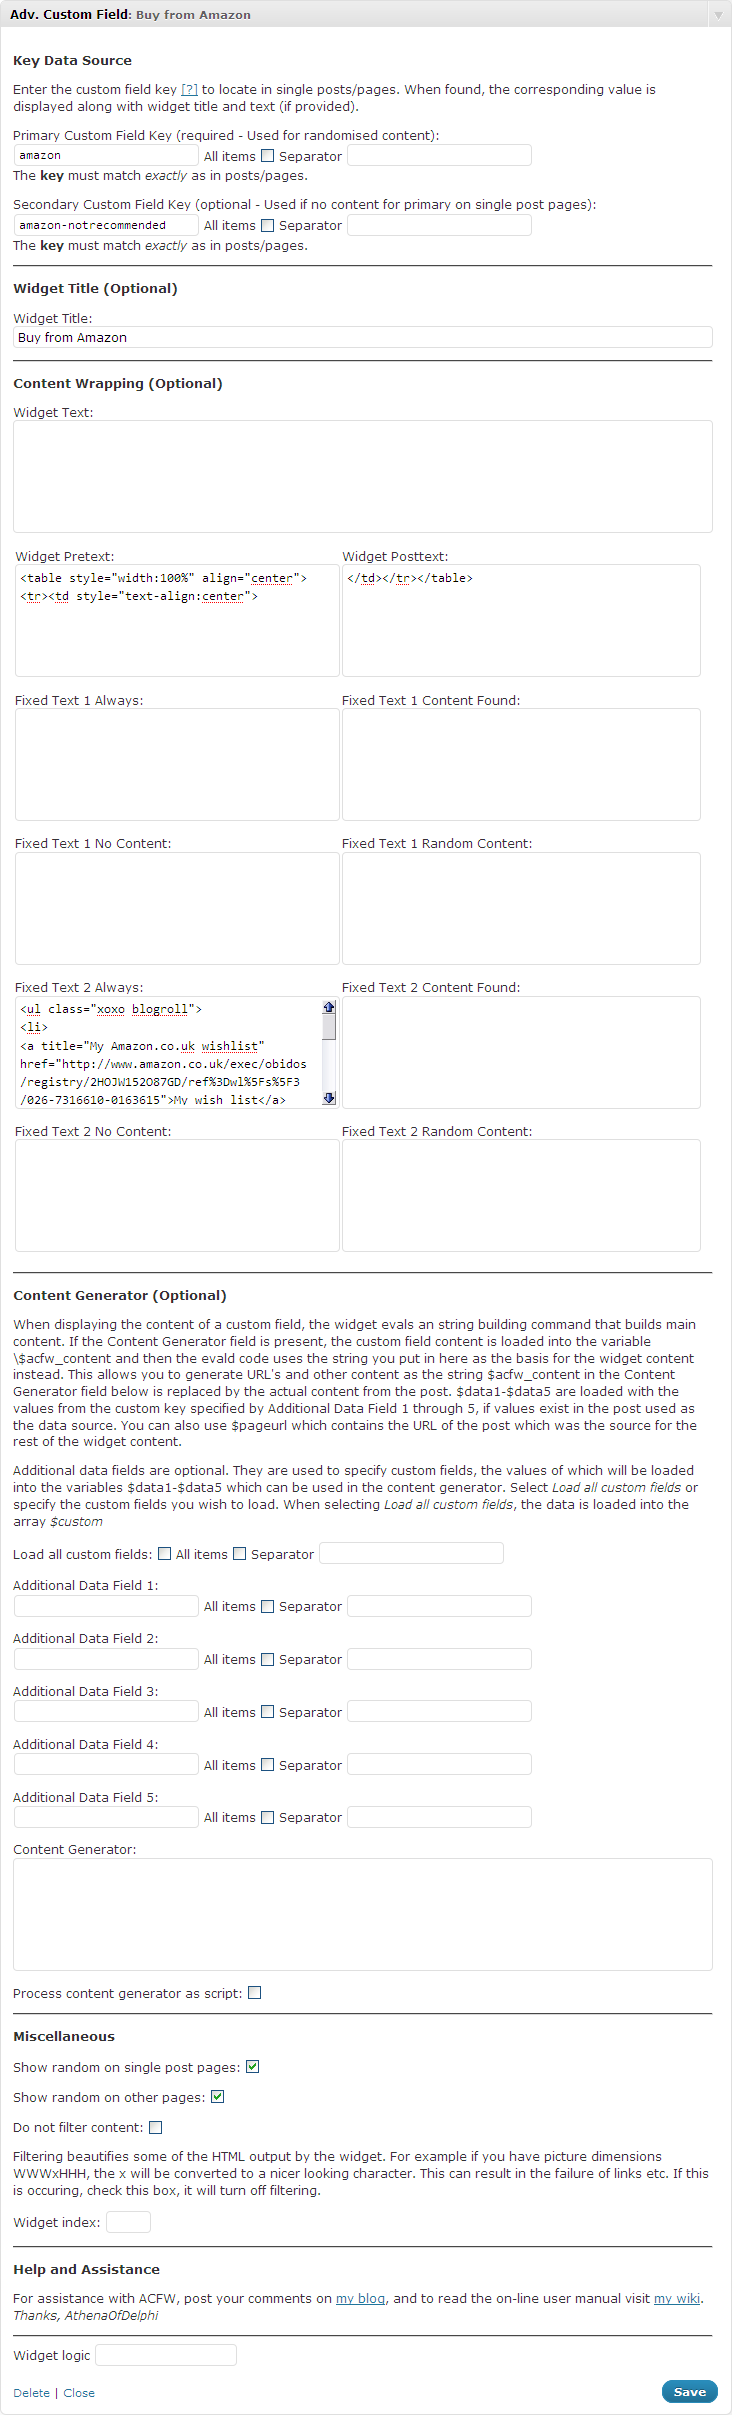
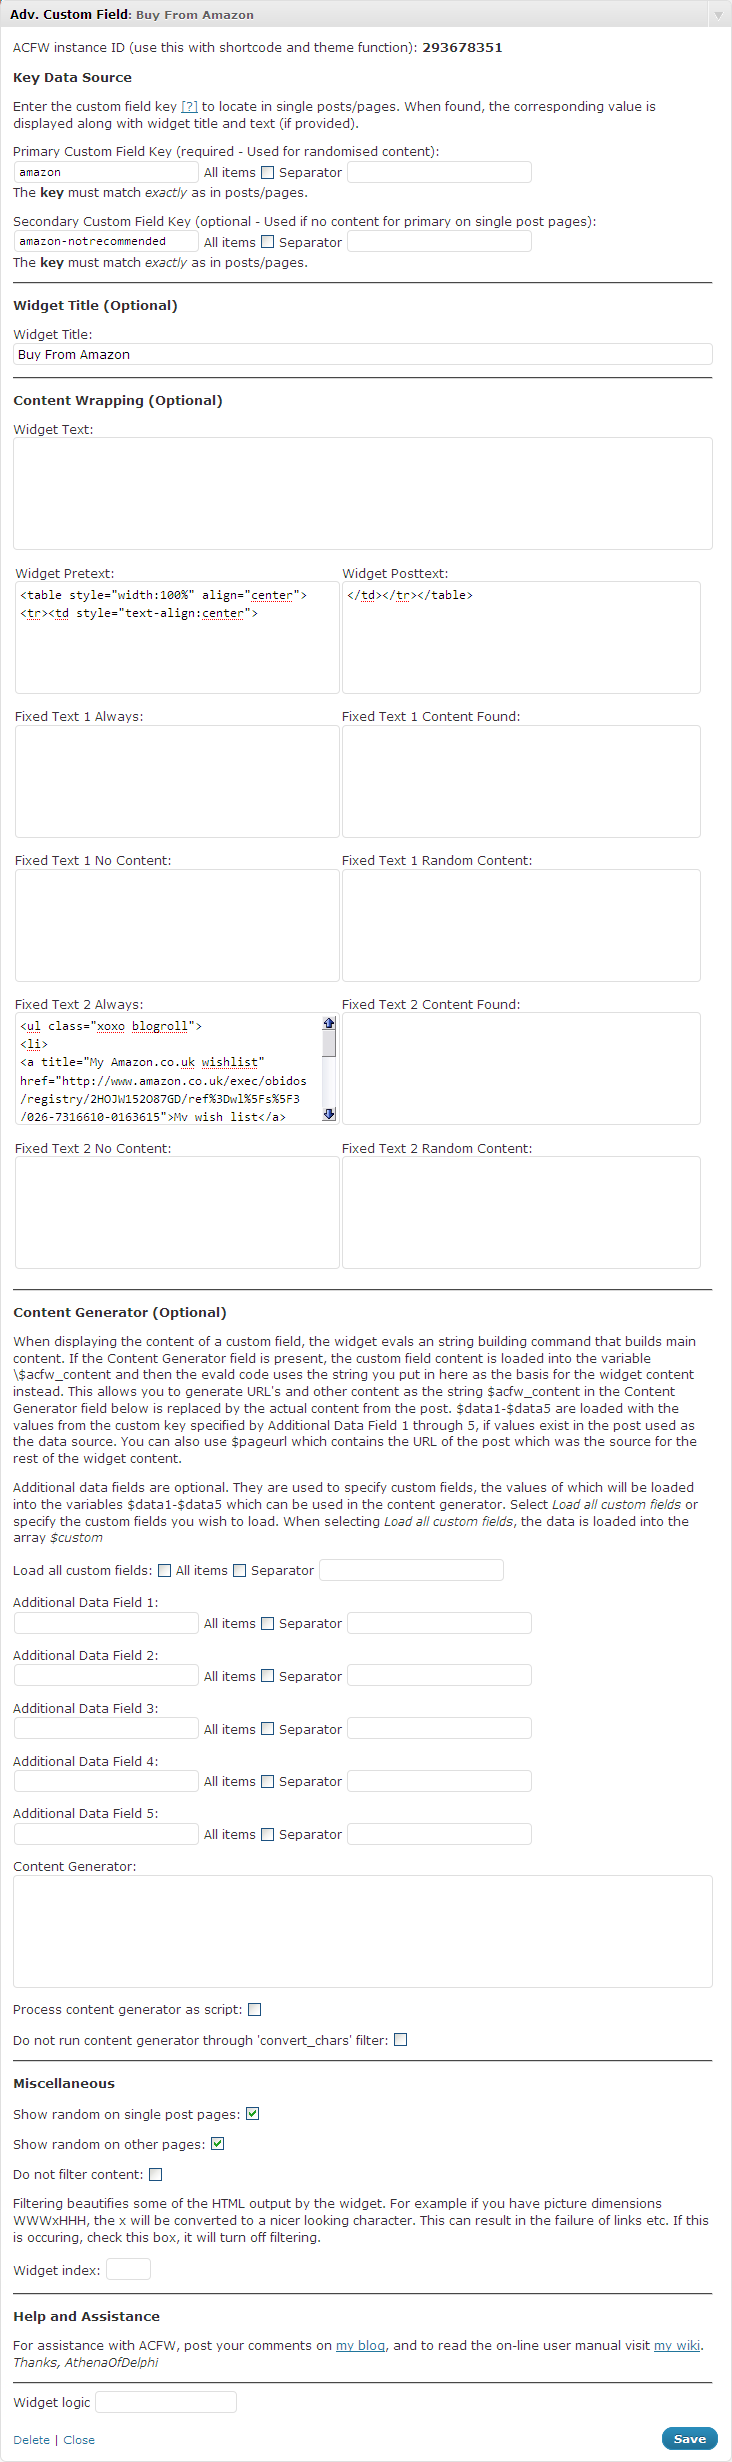
Version 0.93 added to trunk
git-svn-id: https://plugins.svn.wordpress.org/advanced-custom-field-widget/trunk@308605 b8457f37-d9ea-0310-8a92-e5e31aec5664

diff --git a/adv-custom-field-widget.php b/adv-custom-field-widget.php
@@ -5,13 +5,32 @@ PLUGIN URI: http://athena.outer-reaches.com/wiki/doku.php?id=projects:acfw:home
 DESCRIPTION: Displays the values of specified <a href="http://codex.wordpress.org/Using_Custom_Fields">custom field</a> keys, allowing post- and page-specific meta content in your sidebar. This plugin started life as a plaintxt.org experiment for WordPress by Scott Wallick, but I needed (or wanted) it to do more, so I've created this version which has more functionality than the original.  For some detailed instructions about it's use, check out my <a href="http://athena.outer-reaches.com/wiki/doku.php?id=projects:acfw:home">wiki</a>.  To report bugs or make feature requests, visit the Outer Reaches Studios <a href="http://mantis.outer-reaches.co.uk">issue tracker</a>, you will need to signup an account to report issues.
 AUTHOR: Christina Louise Warne
 AUTHOR URI: http://athena.outer-reaches.com/
-VERSION: 0.92
+VERSION: 0.93
 
 ------------------------------------------------------------------------------------------------------------
 Version History:-
 
 Version Date      Author                 Description
 ======= ========= ====================== ======================================
+0.93    06-Nov-10 Christina Louise Warne FIXED - Added an option to stop the field filters putting the content
+                                            generator through the 'convert_chars' filter.  When running
+                                            with different locales, this appears to be converting some chars
+                                            to entities (& to &#38;) with the consequence that links were
+                                            being broken
+                                         ADDED - ACFW shortcode.  The widget config panel provides the widget
+                                            instance ID.  Add [acfw id="<INSTANCEID>"] to a post and the 
+                                            widget will be rendered in the post
+                                         ADDED - acfw(id) function.  You can now render widgets directly in
+                                            a theme.  Simply add acfw(<INSTANCEID>); to the theme to render
+                                            the widget directly in the theme
+                                         ADDED - Custom sidebar to hold widgets for use by ACFW shortcode and
+                                            function
+                                         ADDED - Widget instance ID display to configuration panel (for use
+                                            with ACFW shortcode and function)
+                                         ADDED - Enhanced separator functionality allowing user to specify
+                                            a different separator for the last item and an ending marker
+                                            if required (refer to the usermanual for more information)
+------- --------- ---------------------- --------------------------------------                                            
 0.92    24-Oct-10 Christina Louise Warne FIXED - Code to replace the widgets use of the main loop query was
                                             faulty, and failed when trying to display the widget on pages
                                             with more than one post.  This has been fixed in this version
@@ -124,6 +143,73 @@ define( 'ACFWBLOGLINK', 'http://athena.outer-reaches.com/wp/index.php/wiki/advan
 define( 'ACFWWIKILINK', 'http://athena.outer-reaches.com/wiki/doku.php?id=projects:acfw:home' );
 define( 'CODEXCUSTOMFIELDLINK', 'http://codex.wordpress.org/Using_Custom_Fields' );
 
+// Load a list of values for a field
+function acfw_loadlist( $values, $acfwsep ) {
+    $itemsep = "";
+    $lastitemsep = "";
+    $ending = "";
+    
+    // Capture the inter-item separator
+    $idx = strpos( $acfwsep, '|' );
+    if ( ! ( $idx === false ) ) {
+        if ( $idx > 0 ) {
+            $itemsep = substr( $acfwsep, 0, $idx );    
+        }
+        
+        $acfwsep = substr( $acfwsep, $idx + 1, strlen( $acfwsep ) );
+    } else {
+        if ( $acfwsep != "" ) {
+            $itemsep = $acfwsep;
+            $acfwsep = "";
+        }
+    }
+    
+    // Capture the last inter-item separator
+    $idx = strpos( $acfwsep, '|' );
+    if ( ! ( $idx === false ) ) {
+        if ( $idx > 0 ) {
+            $lastitemsep = substr ( $acfwsep, 0, $idx );            
+        } else {
+            $lastitemsep = $itemsep;
+        }
+        
+        $acfwsep = substr( $acfwsep, $idx + 1, strlen( $acfwsep ) );
+        
+        // Capture the ending
+        if ( $acfwsep != "" ) {
+            $ending = $acfwsep;
+        }
+    } else {
+        if ( $acfwsep != "" ) {
+            $lastitemsep = $acfwsep;
+        } else {
+            $lastitemsep = $itemsep;
+        }
+    }
+
+    $itemsleft = count( $values );
+    $temp = "";
+    
+    foreach ( $values as $key => $value ) {
+        if ( $temp != '' ) {
+            if ( $itemsleft > 1 ) {
+                $temp .= $itemsep;
+            } else {
+                $temp .= $lastitemsep;
+            }
+        }
+                
+        $temp .= $value;
+        $itemsleft = $itemsleft - 1;
+    }
+    
+    if ( ( $temp != "" ) && ( $ending != "" ) ) {
+        $temp .= $ending;
+    }
+    
+    return $temp;
+}
+
 // Load a single custom field for the specified post from the system
 function acfw_loadsinglefield( $acfwpostid, $acfwkey, $acfwloadall, $acfwsep, &$acfwfield)
 {   
@@ -134,13 +220,7 @@ function acfw_loadsinglefield( $acfwpostid, $acfwkey, $acfwloadall, $acfwsep, &$
         
         if ( ! empty( $values ) ) {
             if ( $acfwloadall ) {
-                foreach ( $values as $key => $value ) {
-                    if ( $temp != '' ) {
-                        $temp .= $acfwsep;
-                    }
-                
-                    $temp .= $value;
-                }
+                $temp = acfw_loadlist( $values, $acfwsep );
             } else {
                 $temp = $values[0];
             }
@@ -159,17 +239,7 @@ function acfw_loadallfields( $acfwpostid, $acfwloadall, $acfwsep, &$container )
         foreach ( $temp as $key => $value ) {
             if ( is_array($value) ) {
                 if ( $acfwloadall ) {
-                    $itemlist = '';
-                    foreach ( $value as $idx => $item ) {
-                        if ( $itemlist != '' ) {
-                            $itemlist .= $acfwsep;
-                        }
-                        
-                        $itemlist .= $item;
-                    }
-                     
-                    $container[ $key ] = $itemlist;   
-                    
+                    $container[ $key ] = acfw_loadlist( $values, $acfwsep );
                 } else {
                     $container[ $key ] = $value;
                 }
@@ -211,11 +281,19 @@ function acfw_editfield( $number, $mainlabel, $keyid, $datakey, $datakeyloadall,
 }
 
 // Run the provided data through the required filters
-function acfw_filterfield( $dontfilter, &$data)
+function acfw_filterfield( $dontfilter, $dontconvert, &$data)
 {
-    $data = apply_filters( 'adv_custom_field_value', $data );
+    if ( !$dontconvert ) {
+        // Convert chars
+        $data = apply_filters( 'adv_custom_field_value1', $data );
+    }
+    
+    // Strip slashes
+    $data = apply_filters( 'adv_custom_field_value2', $data );
+    
     if ( !$dontfilter ) {
-        $data = apply_filters( 'adv_custom_field_value2', $data );
+        // WP Texturize
+        $data = apply_filters( 'adv_custom_field_value3', $data );
     }
     $data = addslashes( $data );
     
@@ -235,7 +313,7 @@ function wp_widget_adv_custom_field( $args, $widget_args = 1 ) {
 	// Our widgets are stored with a numeric ID, process them as such
 	if ( is_numeric($widget_args) )
 		$widget_args = array( 'number' => $widget_args );
-        
+    
 	// We'll need to get our widget data by offsetting for the default widget
 	$widget_args = wp_parse_args( $widget_args, array( 'number' => -1 ) );
     
@@ -432,6 +510,9 @@ function wp_widget_adv_custom_field( $args, $widget_args = 1 ) {
 	
 	// Load the 'don't filter' configuration flag
 	$dontfilter = ! empty( $options[$number]['dontfilter'] );
+    
+    // Load the 'don't convert' configuration flag
+    $dontconvert = ! empty( $options[$number]['dontconvert'] );
 		
 	// If we are loading random content
 	if ( $dorandom && ! $blocked ) {
@@ -521,8 +602,8 @@ function wp_widget_adv_custom_field( $args, $widget_args = 1 ) {
             $acfw_content = $cvalue;
             $cvalue = $contentgen;
 
-            acfw_filterfield( $dontfilter, $acfw_content);
-			acfw_filterfield( false, $pagetitle);
+            acfw_filterfield( $dontfilter, false, $acfw_content);
+			acfw_filterfield( false, false, $pagetitle);
             
             if ( $loadallcustom ) {
                 if ( count( $custom ) > 0 ) {
@@ -536,11 +617,11 @@ function wp_widget_adv_custom_field( $args, $widget_args = 1 ) {
                 
                 unset( $custom );
             } else {
-                acfw_filterfield( $dontfilter, $data1 );
-                acfw_filterfield( $dontfilter, $data2 );
-                acfw_filterfield( $dontfilter, $data3 );
-                acfw_filterfield( $dontfilter, $data4 );
-                acfw_filterfield( $dontfilter, $data5 );
+                acfw_filterfield( $dontfilter, false, $data1 );
+                acfw_filterfield( $dontfilter, false, $data2 );
+                acfw_filterfield( $dontfilter, false, $data3 );
+                acfw_filterfield( $dontfilter, false, $data4 );
+                acfw_filterfield( $dontfilter, false, $data5 );
             }
             
             $pageurl = addslashes( $pageurl );
@@ -551,7 +632,7 @@ function wp_widget_adv_custom_field( $args, $widget_args = 1 ) {
         if ( $contentgenscript ) {
             $cvalue=str_replace('\n',chr(13).chr(10),$cvalue);
         } else {
-            acfw_filterfield( $dontfilter, $cvalue );
+            acfw_filterfield( $dontfilter, $dontconvert, $cvalue );
         }
 	
 		// Yes? Then let's make a widget. Open it.
@@ -583,7 +664,7 @@ function wp_widget_adv_custom_field( $args, $widget_args = 1 ) {
                 eval( $cvalue );
                 $cvalue=$content;
             }
-            
+			
 			eval( '$cvalue="\n<div class=\"advcustomvalue\">\n' . $cvalue . '\n</div>\n";' );
             
 			echo urldecode( stripslashes( $cvalue ) );
@@ -660,6 +741,7 @@ function wp_widget_adv_custom_field_control( $widget_args ) {
             $dorandomsingle       = strip_tags( stripslashes( $widget_adv_custom_field['dorandomsingle'] ) );
             $dorandomother        = strip_tags( stripslashes( $widget_adv_custom_field['dorandomother'] ) );   
             $dontfilter           = strip_tags( stripslashes( $widget_adv_custom_field['dontfilter'] ) );
+            $dontconvert          = strip_tags( stripslashes( $widget_adv_custom_field['dontconvert'] ) );
             $widgetindex          = strip_tags( stripslashes( $widget_adv_custom_field['widgetindex'] ) );
             $data1key             = strip_tags( stripslashes( $widget_adv_custom_field['data1key'] ) );
             $data2key             = strip_tags( stripslashes( $widget_adv_custom_field['data2key'] ) );
@@ -732,7 +814,8 @@ function wp_widget_adv_custom_field_control( $widget_args ) {
                 'skeyloadall', 'skeysep', 'data1keyloadall', 'data1keysep',
                 'data2keyloadall', 'data2keysep', 'data3keyloadall', 'data3keysep',
                 'data4keyloadall','data4keysep', 'data5keyloadall', 'data5keysep',
-                'loadallcustomloadall', 'loadallcustomsep', 'contentgenscript'
+                'loadallcustomloadall', 'loadallcustomsep', 'contentgenscript',
+                'dontconvert'
 				);
 		}
 		// Update our options in the database
@@ -766,6 +849,7 @@ function wp_widget_adv_custom_field_control( $widget_args ) {
 		$dorandomother        = '';
 		$contentgen           = '';
 		$dontfilter		      = '';
+        $dontconvert          = '';
 		$widgetindex          = '';
         $data1key             = '';
         $data1keyloadall      = false;
@@ -805,6 +889,8 @@ function wp_widget_adv_custom_field_control( $widget_args ) {
 		$dorandomother        = ! empty( $options[$number]['dorandomother'] );
 		$contentgen           = esc_attr( $options[$number]['contentgen'] );
         $dontfilter           = ! empty( $options[$number]['dontfilter'] );
+        $dontconvert          = ! empty( $options[$number]['dontconvert'] );
+        
         $widgetindex          = esc_attr( $options[$number]['widgetindex'] );
         $loadallcustom        = ! empty( $options[$number]['loadallcustom'] );
         $loadallcustomloadall = ! empty( $options[$number]['loadallcustomloadall'] );
@@ -823,6 +909,7 @@ function wp_widget_adv_custom_field_control( $widget_args ) {
 	// Generate the widget control panel
 ?>
     <div style="width:700px">
+    <p><?php _e( 'ACFW instance ID (use this with shortcode and theme function):', 'acf_widget' ); ?> <b></i><?php if (is_numeric( $number )) { echo $number; } else { _e( '(Unknown - Save the configuration)', 'acf_widget' ); } ?></b></i></p>
     <h3>Key Data Source</h3>
 	<p>
         <?php printf( __( 'Enter the custom field key <a href="%s">[?]</a>  to locate in single posts/pages. When found, the corresponding value is displayed along with widget title and text (if provided).', 'acf_widget' ), CODECUSTOMFIELDLINK ) ?>
@@ -948,6 +1035,10 @@ function wp_widget_adv_custom_field_control( $widget_args ) {
         <label for="adv-custom-field-contentgenscript-<?php echo $number; ?>"><?php _e( 'Process content generator as script:', 'acf_widget' ) ?></label>
         <input type="checkbox" id="adv-custom-field-contentgenscript-<?php echo $number; ?>" name="widget-adv-custom-field[<?php echo $number; ?>][contentgenscript]" <?php if ( $contentgenscript ) echo "checked"; ?>>
     </p>
+    <p>
+        <label for="adv-custom-field-dontconvert-<?php echo $number; ?>"><?php _e( 'Do not run content generator through \'convert_chars\' filter:', 'acf_widget' ) ?></label>
+        <input type="checkbox" id="adv-custom-field-dontconvert-<?php echo $number; ?>" name="widget-adv-custom-field[<?php echo $number; ?>][dontconvert]" <?php if ( $dontconvert ) echo "checked"; ?>>
+    </p>
     
     <hr />
     <h3>Miscellaneous</h3>		
@@ -960,10 +1051,10 @@ function wp_widget_adv_custom_field_control( $widget_args ) {
 		<input type="checkbox" id="adv-custom-field-dorandomother-<?php echo $number; ?>" name="widget-adv-custom-field[<?php echo $number; ?>][dorandomother]" <?php if ( $dorandomother ) echo "checked"; ?>>
 		<input type="hidden" name="widget-adv-custom-field[<?php echo $number; ?>][submit]" value="1" />
 	</p>	
-	<p>
-		<label for="adv-custom-field-dontfilter-<?php echo $number; ?>"><?php _e( 'Do not filter content:', 'acf_widget' ) ?></label>
-		<input type="checkbox" id="adv-custom-field-dontfilter-<?php echo $number; ?>" name="widget-adv-custom-field[<?php echo $number; ?>][dontfilter]" <?php if ( $dontfilter ) echo "checked"; ?>>
-	</p>
+    <p>
+        <label for="adv-custom-field-dontfilter-<?php echo $number; ?>"><?php _e( 'Do not filter content:', 'acf_widget' ) ?></label>
+        <input type="checkbox" id="adv-custom-field-dontfilter-<?php echo $number; ?>" name="widget-adv-custom-field[<?php echo $number; ?>][dontfilter]" <?php if ( $dontfilter ) echo "checked"; ?>>
+    </p>
 	<p><?php _e( 'Filtering beautifies some of the HTML output by the widget.  For example if you have picture dimensions WWWxHHH, the x will be converted to a nicer looking character.  This can result in the failure of links etc.  If this is occuring, check this box, it will turn off filtering.', 'acf_widget' ) ?></p>
 	<p>
 		<label for="adv-custom-field-widgetindex-<?php echo $number; ?>"><?php _e( 'Widget index:', 'acf_widget' ) ?></label>
@@ -981,6 +1072,33 @@ function wp_widget_adv_custom_field_control( $widget_args ) {
 <?php
 	// And we're finished with our widget options panel
 }
+
+// Shortcode to allow rendering of widgets in a post
+function acfw_getwidget( $atts ) {
+    $content = '';
+    
+    extract( shortcode_atts( array(
+        'id' => '0'
+    ), $atts ) );
+
+    $acfwid = $atts['id'];
+    
+    if ( $acfwid != 0 ) {
+        ob_start();
+        wp_widget_adv_custom_field( array( 'number' => $acfwid ), 1 );
+        $content = ob_get_contents();
+        ob_end_clean();
+    }
+    
+    return $content;
+}
+add_shortcode( 'acfw', 'acfw_getwidget' );
+
+// Function to allow rendering of widgets directly in a theme
+function acfw( $number ) {
+    wp_widget_adv_custom_field( array( 'number' => $number ), 1 );
+}
+
 // Function to add widget option table when activating this plugin
 function wp_widget_adv_custom_field_activation() {
 	add_option( 'widget_adv_custom_field', '', '', 'yes' );
@@ -1024,12 +1142,22 @@ function wp_widget_adv_custom_field_register() {
 		wp_register_sidebar_widget( 'adv-custom-field-1', $name, 'wp_widget_adv_custom_field', $widget_ops, array( 'number' => -1 ) );
 		wp_register_widget_control( 'adv-custom-field-1', $name, 'wp_widget_adv_custom_field_control', $control_ops, array( 'number' => -1 ) );
 	}
+    
+    // Register our holding sidebar
+    register_sidebar( array(
+        'id'            => 'acfw01',
+        'name'          => 'ACFW Holding Area',
+        'description'   => 'Holding area for invisible instances of ACFW that can be added using the [acfw id="<acfwid>"] shortcode or the acfw(<acfwid>); function in themes.',
+        'before_widget' => '',
+        'after_widget'  => ''
+        )
+    );
 }
 
 // Adds filters to custom field values to prettify like other content
-add_filter( 'adv_custom_field_value', 'convert_chars' );
-add_filter( 'adv_custom_field_value', 'stripslashes' );
-add_filter( 'adv_custom_field_value2', 'wptexturize' );
+add_filter( 'adv_custom_field_value1', 'convert_chars' );
+add_filter( 'adv_custom_field_value2', 'stripslashes' );
+add_filter( 'adv_custom_field_value3', 'wptexturize' );
 
 // When activating, run the appropriate function
 register_activation_hook( __FILE__, 'wp_widget_adv_custom_field_activation' );
